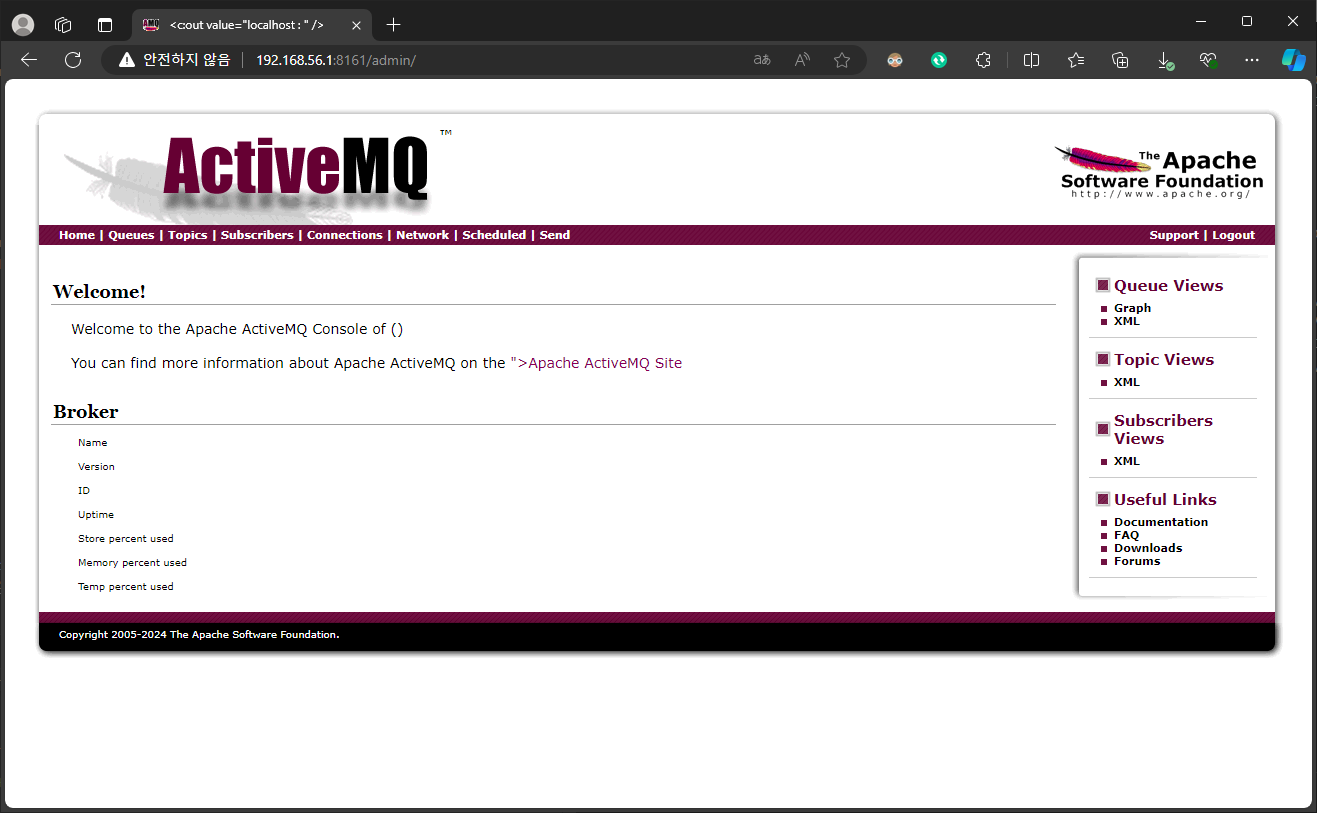
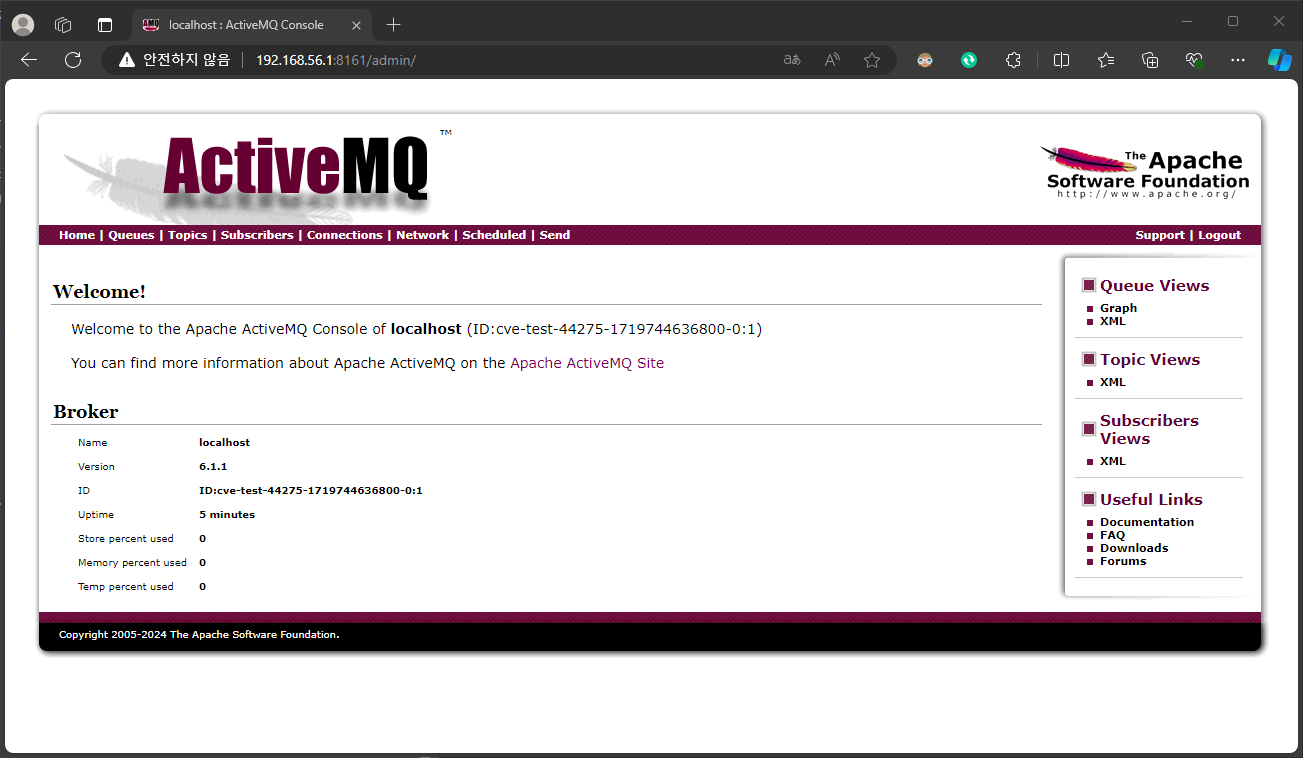
06.30

diff --git a/docs/cve/code/cve-2024-32114.py b/docs/cve/code/cve-2024-32114.py
@@ -1,7 +1,7 @@
 import requests
 
 # Jolokia REST API 엔드포인트 URL
-url = "http://127.0.0.1:8161/api/jolokia/read/java.lang:type=Memory"
+url = "http://192.168.56.1:8161/api/jolokia/read/java.lang:type=Memory"
 
 # GET 요청을 보내고 응답을 받습니다.
 response = requests.get(url)

diff --git a/docs/cve/cve-2024-32114.md b/docs/cve/cve-2024-32114.md
@@ -43,23 +43,14 @@ Apache ActiveMQ 버전 6.1.2 이전
 
 ActiveMQ v6.1.1 설치 및 http2 프로토콜 사용 설정
 ```bash
-## Java 설치, 환경 변수 설정
-sudo apt install openjdk-11-jdk
+## Java 설치, 
+sudo apt install openjdk-17-jdk
 java -version
-
-vi ~/.bashrc 
-## 최하단에 추가
-export JAVA_HOME=/usr/lib/jvm/java-11-openjdk-amd64
-export PATH=${PATH}:${JAVA_HOME}/bin
-
-source ~/.bashrc
-echo $JAVA_HOME
 
 ## ActiveMQ v6.1.1 설치
 cd /usr/local/src
 wget https://archive.apache.org/dist/activemq/6.1.1/apache-activemq-6.1.1-bin.tar.gz
 tar -xvf  apache-activemq-6.1.1-bin.tar.gz
-
 mkdir /opt/activemq
 sudo mv /usr/local/src/apache-activemq-6.1.1/* /opt/activemq
 
@@ -87,11 +78,10 @@ After=network.target
 
 [Service]
 Type=forking
-ExecStart=/opt/activemq/bin/activemq start
-ExecStop=/opt/activemq/bin/activemq stop
 User=activemq
 Group=activemq
-Restart=on-failure
+ExecStart=/opt/activemq/bin/activemq start
+ExecStop=/opt/activemq/bin/activemq stop
 
 [Install]
 WantedBy=multi-user.target
@@ -99,6 +89,8 @@ WantedBy=multi-user.target
 ## Daemon 재시작
 sudo systemctl daemon-reload
 sudo systemctl start activemq
+sudo systemctl enable activemq
+sudo systemctl status activemq
 
 ## 접속 확인
 http://192.168.56.1:8161/admin
